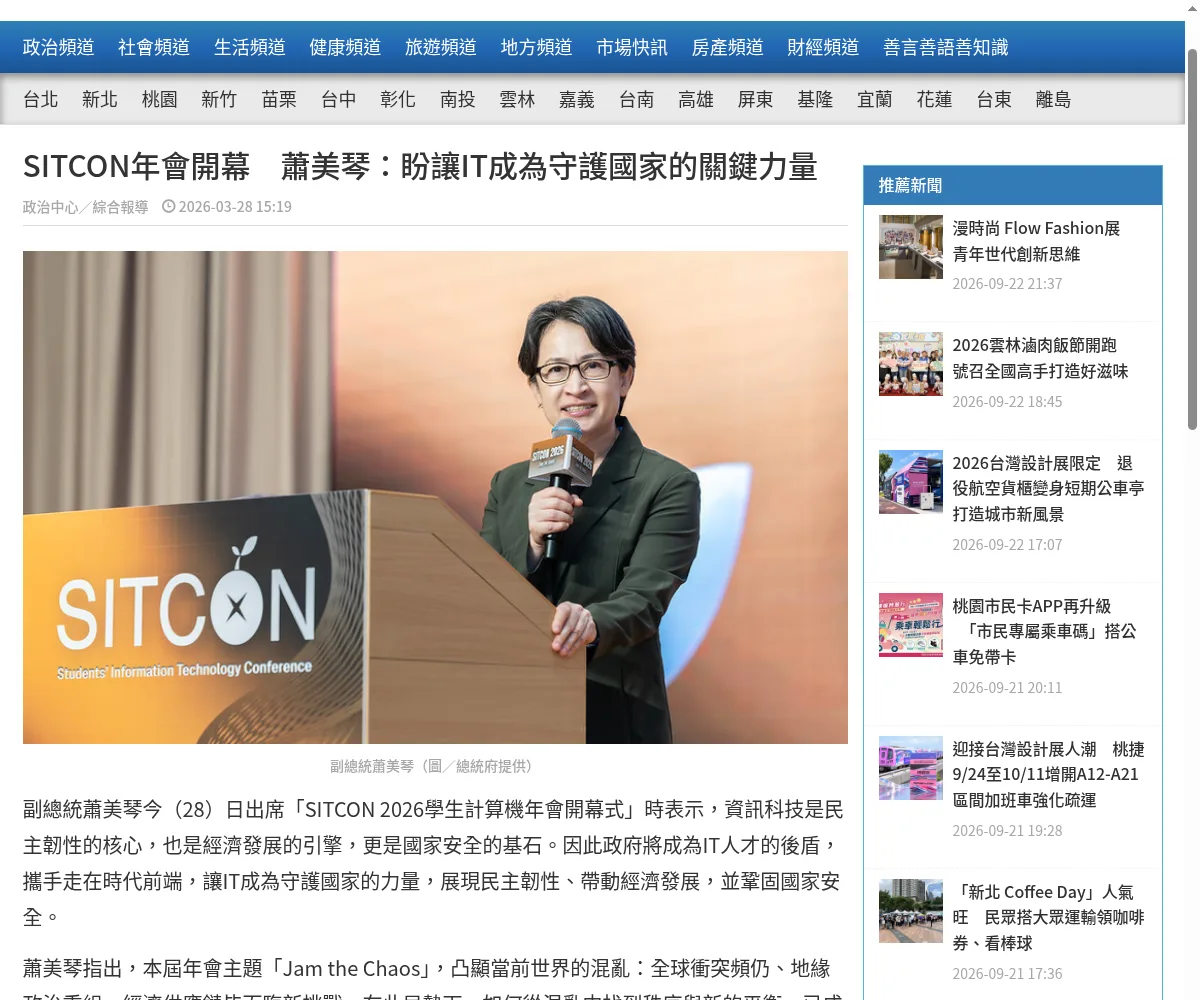
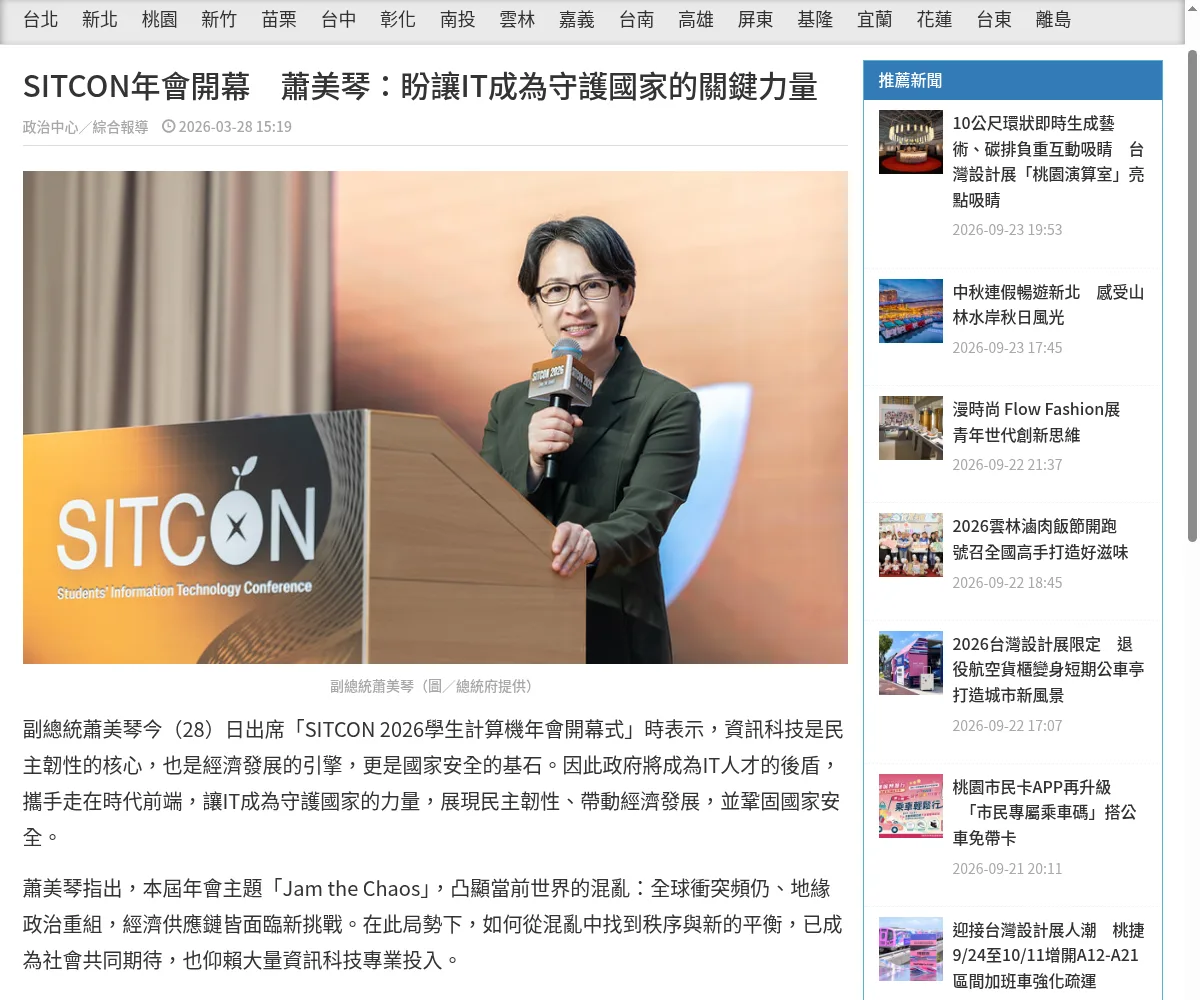
fix: ad-free article screenshots for CNA, Economic Daily, OCAC and TaiwanHot
Recaptured with ad networks blocked and ad, sidebar, related-news and
floating elements removed before capture, so only the headline and article
remain. President page has no ads and keeps its existing capture.

diff --git a/docs/photo-sources.md b/docs/photo-sources.md
@@ -43,7 +43,7 @@
 
 ## 還原為原始圖片的位置（0dbbf3e）
 
-- 新聞區：原始的五張新聞截圖與排版（ettoday、newstaiwan、Yourator、經濟日報、Yahoo）維持不動；其後依序附加 7 張 2026 來源的真實頁面截圖（1200×1000，2026-09-23 以 headless Chromium 擷取）：總統府、中央社、經濟日報、僑務電子報、台灣好新聞、LINE Taiwan 技術部落格、MUCH《台灣新驕點》#56 的 YouTube 影片頁（2026-09-24 改為影片 3 分 10 秒處的畫面加標題列，移除廣告元素後擷取）。每張連到原始來源。2026 報導文字連結列也保留。
+- 新聞區：原始的五張新聞截圖與排版（ettoday、newstaiwan、Yourator、經濟日報、Yahoo）維持不動；其後依序附加 7 張 2026 來源的真實頁面截圖（1200×1000，2026-09-23 以 headless Chromium 擷取）：總統府、中央社、經濟日報、僑務電子報、台灣好新聞、LINE Taiwan 技術部落格、MUCH《台灣新驕點》#56 的 YouTube 影片頁（2026-09-24 改為影片 3 分 10 秒處的畫面加標題列，移除廣告元素後擷取）。每張連到原始來源。2026-09-24 重新擷取中央社、經濟日報、僑務電子報、台灣好新聞四張：擷取前封鎖廣告網域並移除廣告、側欄、相關新聞與浮動元件，畫面只保留標題與內文；總統府頁面本身無廣告，維持原截圖。2026 報導文字連結列也保留。
 - 「一年一度的時刻」區塊：2026-09-24 依使用者要求改回 2026 照片（志工合照、活動詳情彈窗背景、場地 R0、R1/R2、交誼廳）；R3 仍為原圖。
 - 贊助品項 4、7、8、9、14、17、18、20、21、22、26、27、31、32、33、34、35：替換圖片不是該品項的精確對應（例如錄影模板改成會場拍攝的投影畫面、樓梯打卡牆改成一般樓梯、洗手間標語改成走廊指標、電視輪播改成攤位電視，或為 2017–2025 舊照），全部還原。
 - 品項 3、11、15 與數位品項（12、13、19、25、39、40）從未更換。
